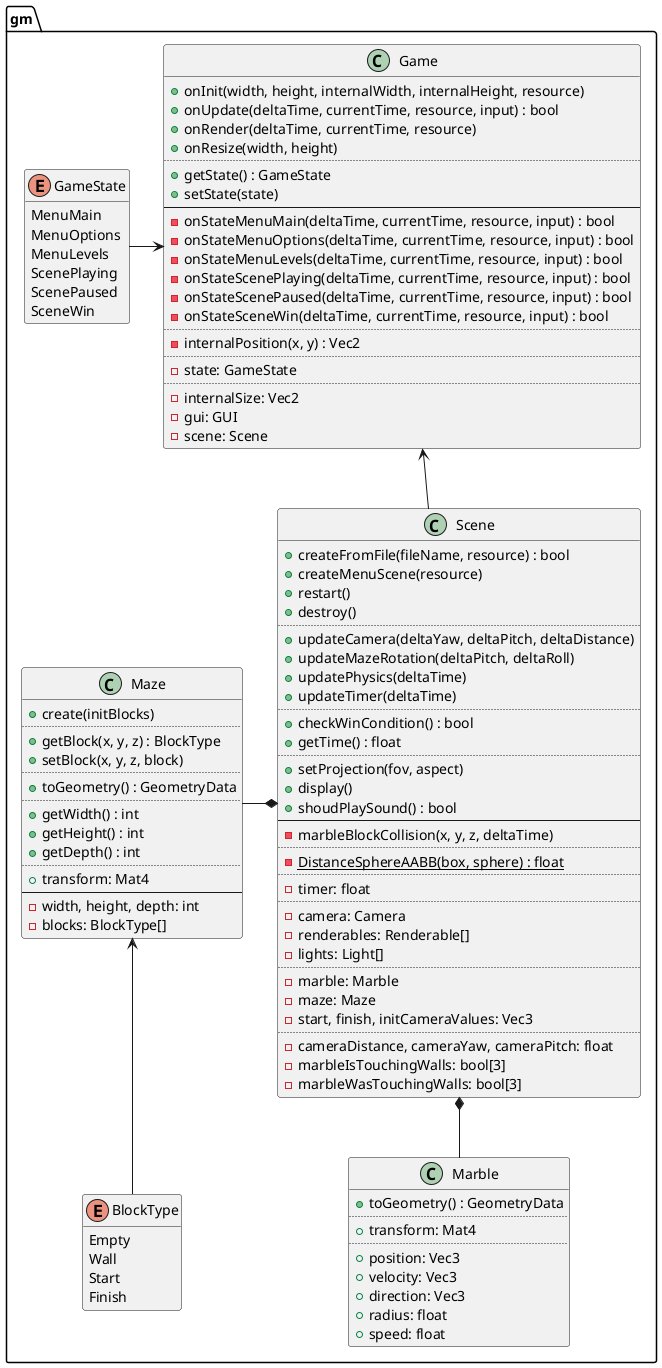
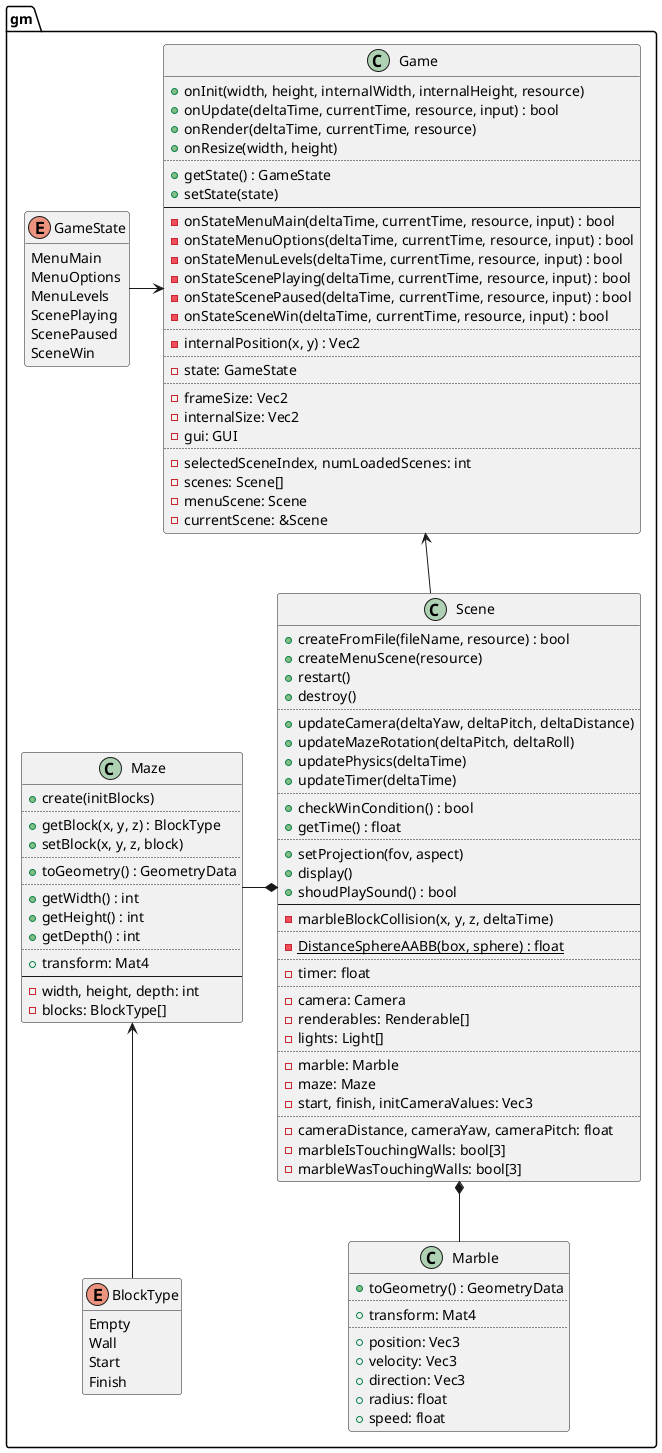
Groundwork for loading multiple scenes at startup

Changed region(s): [[0.0, 0.0, 0.9668, 1.0], [0.0302, 0.4912, 0.3625, 0.7061], [0.0302, 0.1228, 0.2115, 0.2456]]

diff --git a/src/gm/game.cpp b/src/gm/game.cpp
@@ -5,7 +5,9 @@
 
 using namespace gm;
 
-Game::Game() : state(MenuMain), frameSize({0, 0}), internalSize({0, 0}), gui(), scene() {}
+Game::Game()
+	: state(MenuMain), frameSize({0, 0}), internalSize({0, 0}), gui()
+	, selectedSceneIndex(0), numLoadedScenes(0), scenes(), menuScene(), currentScene(nullptr) {}
 
 void Game::onInit(int width, int height, float internalWidth, float internalHeight, rs::ResourceManager& resource) {
 	rn::Renderer::resizeFrame(width, height);
@@ -15,9 +17,20 @@ void Game::onInit(int width, int height, float internalWidth, float internalHeig
 	gui.create(resource.getShader("text"), resource.getFont("noto48"), resource.createMesh("gui", 600));
 	gui.setFrame(0, width, 0, height);
 
-	scene.createMenuScene(resource);
-	scene.setProjection(72 * la::DegToRad, frameSize.x / frameSize.y);
+	menuScene.createMenuScene(resource);
+	menuScene.setProjection(72 * la::DegToRad, frameSize.x / frameSize.y);
 
+	DEBUG_TRACE("a");
+	scenes.push_back(Scene());
+	if (scenes[0].createFromFile(_RES_PATH "testLevel.txt", resource)) {
+		scenes[0].setProjection(72 * la::DegToRad, frameSize.x / frameSize.y);
+	} else {
+		DEBUG_ERROR("Failed to load test scene");
+		scenes[0].destroy();
+	}
+	DEBUG_TRACE("b");
+
+	currentScene = &menuScene;
 	setState(MenuMain);
 }
 
@@ -28,7 +41,7 @@ void Game::onResize(int width, int height) {
 	float ox = (internalSize.x - width * internalSize.y / height) / 2;
 	gui.setFrame(ox, internalSize.x - ox, 0, internalSize.y);
 
-	scene.setProjection(72 * la::DegToRad, frameSize.x / frameSize.y);
+	currentScene->setProjection(72 * la::DegToRad, frameSize.x / frameSize.y);
 }
 
 bool Game::onUpdate(float deltaTime, float currentTime, rs::ResourceManager& resource, const in::Input& input) {
@@ -65,7 +78,7 @@ void Game::onRender(float deltaTime, float currentTime, rs::ResourceManager& res
 		rn::Renderer::clear(0.0f, 0.0f, 0.0f);
 	}
 
-	scene.display();
+	currentScene->display();
 	gui.display();
 }
 
@@ -115,7 +128,7 @@ void Game::setState(GameState newState) {
 		gui.clear();
 
 		std::stringstream timeText;
-		timeText << "Time: " << std::setprecision(4) << scene.getTime() << "s";
+		timeText << "Time: " << std::setprecision(4) << currentScene->getTime() << "s";
 
 		constexpr la::Vec4 textCol = {1.0f, 1.0f, 1.0f, 1.0f};
 		constexpr la::Vec4 backCol = {1.0f, 1.0f, 1.0f, 0.2f};
@@ -136,7 +149,7 @@ void Game::setState(GameState newState) {
 bool Game::onStateMenuMain(
 		float deltaTime, float currentTime, rs::ResourceManager& resource, const in::Input& input) {
 
-	scene.updateCamera(deltaTime / 4, 0, 0);
+	currentScene->updateCamera(deltaTime / 4, 0, 0);
 
 	la::Vec2 scaledMouse = internalPosition(input.getMouseX(), input.getMouseY());
 
@@ -155,11 +168,10 @@ bool Game::onStateMenuMain(
 		DEBUG_TRACE("GO TO OPTIONS");
 	}
 	if (onPlay) {
-		scene.destroy();
-		scene.createFromFile(_RES_PATH "testLevel.txt", resource);
-		scene.setProjection(72 * la::DegToRad, frameSize.x / frameSize.y);
-		setState(ScenePlaying);
 		resource.getSound("select").play();
+
+		currentScene = &scenes[1];
+		setState(ScenePlaying);
 	}
 	return true;
 }
@@ -181,7 +193,7 @@ bool Game::onStateScenePlaying(
 
 	if (input.getKey(in::GameRestart) == in::JustPressed) {
 		resource.getSound("select").play();
-		scene.restart();
+		currentScene->restart();
 	}
 
 	if (input.getKey(in::GamePause) == in::JustPressed) {
@@ -189,13 +201,13 @@ bool Game::onStateScenePlaying(
 		return true;
 	}
 
-	if (scene.checkWinCondition() || input.getKey(in::MenuSelect) == in::JustPressed) {
+	if (currentScene->checkWinCondition() || input.getKey(in::MenuSelect) == in::JustPressed) {
 		resource.getSound("select").play();
 		setState(SceneWin);
 		return true;
 	}
 
-	if (scene.shouldPlaySound()) {
+	if (currentScene->shouldPlaySound()) {
 		resource.getSound("solid").play();
 	}
 
@@ -207,20 +219,20 @@ bool Game::onStateScenePlaying(
 	};
 
 	if (pressed[3] || pressed[2] || pressed[1] || pressed[0]) {
-		scene.updateMazeRotation(
+		currentScene->updateMazeRotation(
 			(pressed[1] - pressed[0]) * deltaTime,
 			(pressed[3] - pressed[2]) * deltaTime);
 	}
 
 	if (input.getMouseL() == in::Pressed || input.getScrollY() != 0) {
-		scene.updateCamera(
+		currentScene->updateCamera(
 			input.getDeltaMouseX() * deltaTime * 0.2f,
 			input.getDeltaMouseY() * deltaTime * 0.2f,
 			-input.getScrollY() * deltaTime * 10);
 	}
 
-	scene.updatePhysics(deltaTime);
-	scene.updateTimer(deltaTime);
+	currentScene->updatePhysics(deltaTime);
+	currentScene->updateTimer(deltaTime);
 
 	return true;
 }
@@ -249,7 +261,7 @@ bool Game::onStateSceneWin(
 	}
 
 	if (onPlay) {
-		scene.restart();
+		currentScene->restart();
 		setState(ScenePlaying);
 	}
 	if (onQuit) {

diff --git a/src/gm/scene.cpp b/src/gm/scene.cpp
@@ -23,7 +23,7 @@ bool Scene::createFromFile(std::string_view fileName, rs::ResourceManager& resou
 	}
 
 	std::string configLine;
-	std::string marbleMaterialName, mazeMaterialName, finishMaterialName, skyboxMaterialName;
+	std::string id, marbleMaterialName, mazeMaterialName, finishMaterialName, skyboxMaterialName;
 	size_t mazeWidth = 0, mazeDepth = 0, mazeHeight = 0;
 	BlockVector3D initBlocks;
 	while (std::getline(configIn, configLine)) {
@@ -34,6 +34,10 @@ bool Scene::createFromFile(std::string_view fileName, rs::ResourceManager& resou
 		std::string configToken;
 		std::istringstream configStream(configLine);
 		configStream >> configToken;
+		if (configToken == "INTERNAL_ID") {
+			configStream >> id;
+			id += "_";
+		}
 		if (configToken == "LIGHT_POSITION") {
 			configStream >> light.position.x >> light.position.y >> light.position.z;
 		}
@@ -148,21 +152,21 @@ bool Scene::createFromFile(std::string_view fileName, rs::ResourceManager& resou
 	updateCamera();
 	initCameraValues = {cameraDistance, cameraYaw, cameraPitch};
 
-	rs::Mesh& mazeMesh = resource.createMesh("maze", 36 * mazeWidth * mazeHeight * mazeDepth);
+	rs::Mesh& mazeMesh = resource.createMesh(id + "maze", 36 * mazeWidth * mazeHeight * mazeDepth);
 	mazeMesh.addGeometry(maze.toGeometry());
 
-	rs::Mesh& marbleMesh = resource.createMesh("marble", 960);
+	rs::Mesh& marbleMesh = resource.createMesh(id + "marble", 960);
 	marbleMesh.addGeometry(marble.toGeometry());
 
 	ge::GeometryData finishCube = ge::GeometryGenerator::GenerateCube();
 	ge::GeometryTransform::Translate(finishCube, finish);
-	rs::Mesh& finishMesh = resource.createMesh("finish", 36);
+	rs::Mesh& finishMesh = resource.createMesh(id + "finish", 36);
 	finishMesh.addGeometry(finishCube);
 
 	ge::GeometryData skybox = ge::GeometryGenerator::GenerateCube();
 	ge::GeometryTransform::Scale(skybox, {1000, 1000, 1000});
 	ge::GeometryTransform::Translate(skybox, cameraTarget);
-	rs::Mesh& skyboxMesh = resource.createMesh("sky", 36);
+	rs::Mesh& skyboxMesh = resource.createMesh(id + "skybox", 36);
 	skyboxMesh.addGeometry(skybox);
 
 	renderables.push_back(rn::Renderable());
@@ -223,16 +227,16 @@ void Scene::createMenuScene(rs::ResourceManager& resource) {
 	camera.setTarget(cameraTarget);
 	initCameraValues = {cameraDistance, cameraYaw, cameraPitch};
 
-	rs::Mesh& mazeMesh = resource.createMesh("maze", 36 * mazeWidth * mazeHeight * mazeDepth);
+	rs::Mesh& mazeMesh = resource.createMesh("maze_menu", 36 * mazeWidth * mazeHeight * mazeDepth);
 	mazeMesh.addGeometry(maze.toGeometry());
 
-	rs::Mesh& marbleMesh = resource.createMesh("marble", 960);
+	rs::Mesh& marbleMesh = resource.createMesh("marble_menu", 960);
 	marbleMesh.addGeometry(marble.toGeometry());
 
 	ge::GeometryData skybox = ge::GeometryGenerator::GenerateCube();
 	ge::GeometryTransform::Scale(skybox, {1000, 1000, 1000});
 	ge::GeometryTransform::Translate(skybox, cameraTarget);
-	rs::Mesh& skyboxMesh = resource.createMesh("sky", 36);
+	rs::Mesh& skyboxMesh = resource.createMesh("skybox_menu", 36);
 	skyboxMesh.addGeometry(skybox);
 
 	renderables.push_back(rn::Renderable());

diff --git a/src/gm/game.hpp b/src/gm/game.hpp
@@ -44,6 +44,10 @@ namespace gm {
 
 		la::Vec2 frameSize, internalSize;
 		rn::GUI gui;
-		Scene scene;
+
+		int selectedSceneIndex, numLoadedScenes;
+		std::vector<Scene> scenes;
+		Scene menuScene;
+		Scene* currentScene;
 	};
 }
